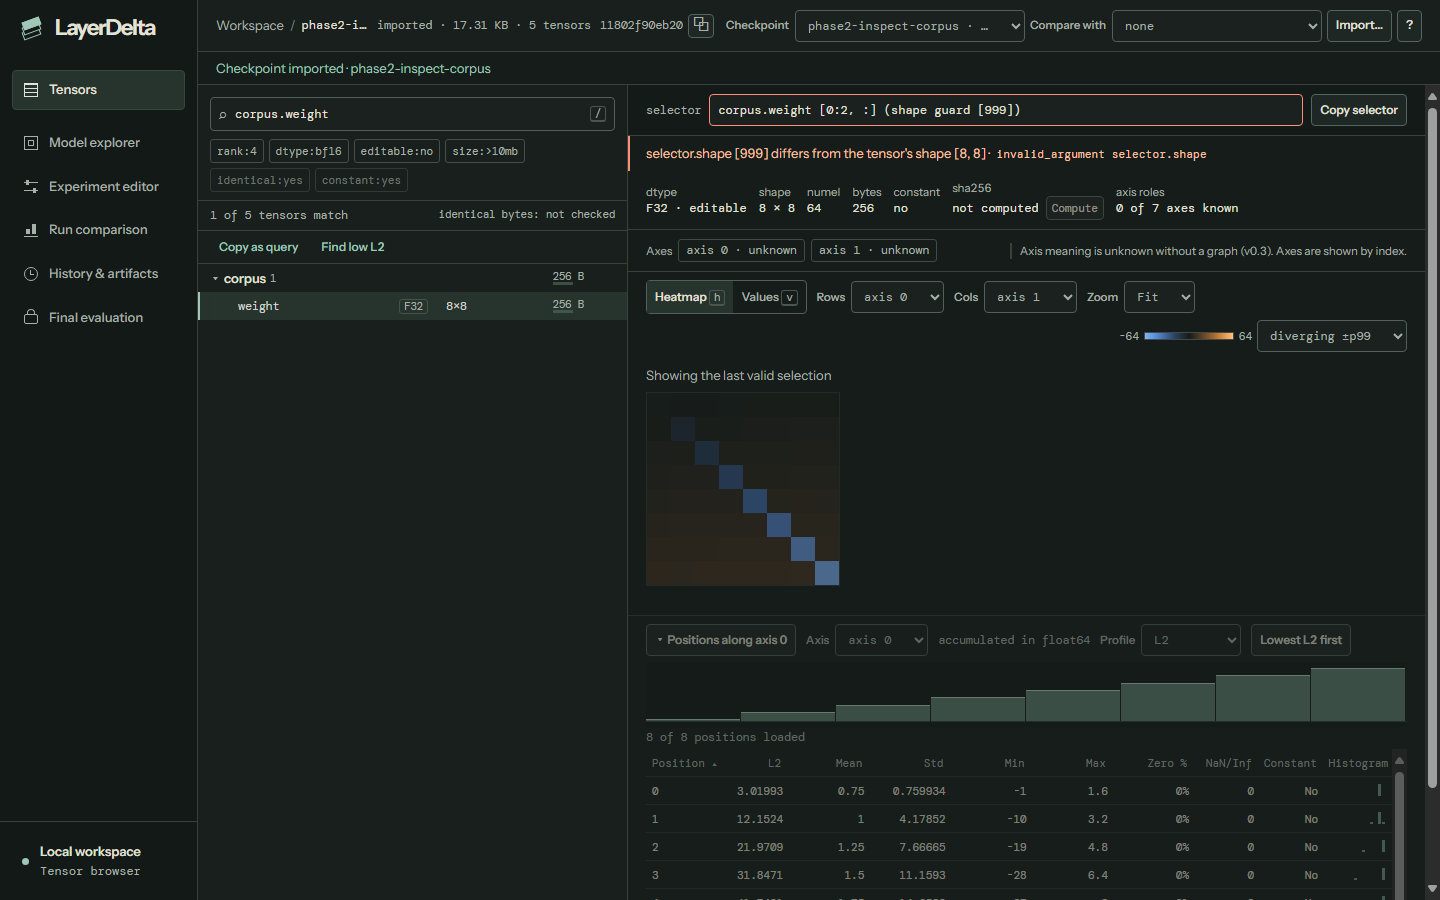
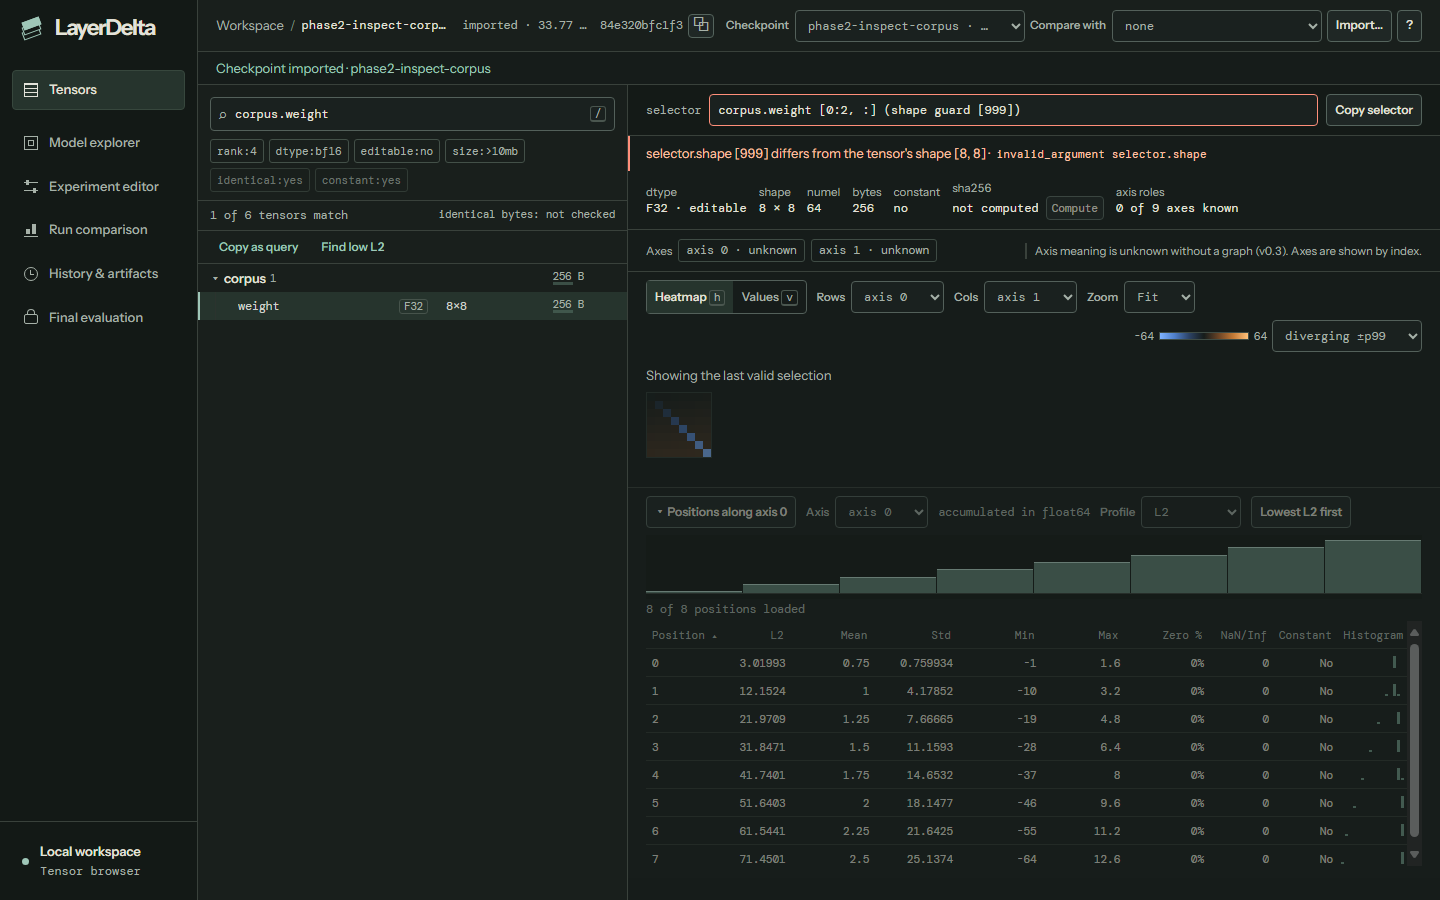
Fit tensor windows to the pane and draw profile envelopes

diff --git a/desktop/src/TensorInspector.tsx b/desktop/src/TensorInspector.tsx
@@ -2,7 +2,7 @@ import {useEffect, useMemo, useRef, useState} from "react";
 import {AxisRange, coordinates, DiffReply, DiffStatus, elements, Envelope, indicesFor, InspectError, Range, Read,
   Resolved, resolveSelector, Selector, Tensor, TensorDataSource, Unit, Value, ValueDiff} from "./tensorSource";
 import {count, statuses} from "./tensorTree";
-import {Cells, displayUlp, Heatmap, heatmapHeight, heatmapSize, metric, minFitCell, printed, ScaleLegend, ScaleMode, scaleFor, useWidth, ValueGrid, valueGridWidths} from "./tensorValues";
+import {Cells, displayUlp, fitCell, Heatmap, heatmapHeight, heatmapSize, metric, minFitCell, printed, ScaleLegend, ScaleMode, scaleFor, useWidth, ValueGrid, valueGridWidths} from "./tensorValues";
 import {Units} from "./tensorUnits";
 
 type View = "Heatmap" | "Values" | "Mosaic";
@@ -11,7 +11,7 @@ type DeltaPage = DiffReply<ValueDiff>;
 type Cursors = {child: string | null; parent?: string | null; delta?: string | null; pair?: string};
 type LoadedPage = {child: ReadPage; parent?: ReadPage; delta?: DeltaPage};
 type Layout = {rows: number; cols: number; spatial: number[]; view: View; index: Record<string, number[] | AxisRange>; shape?: number[]};
-type Display = Pick<Layout, "rows" | "cols" | "spatial"> & {flats: boolean; selectorText: string};
+type Display = Pick<Layout, "rows" | "cols" | "spatial"> & {flats: boolean; flatCols: number; selectorText: string};
 type DisplayedPage = LoadedPage & {key: string; dataset: string; range: LoadedPage & {key: string}; display: Display};
 const pageCap = 10000;
 const smallAxes = (tensor: Tensor) => tensor.shape.flatMap((n, i) => n > 0 && n <= 7 ? [i] : []);
@@ -71,6 +71,7 @@ type InspectorProps = {source: TensorDataSource; checkpoint: string; other: stri
 export function TensorInspector({source, checkpoint, other, tensor: t, status, coverage, shortcuts, copy, focusRequest}: InspectorProps) {
   const [layout, setLayout] = useState(() => defaultLayout(t));
   const [page, setPage] = useState(0);
+  const [cursorPageSize, setCursorPageSize] = useState<number>();
   const [flatCursors, setFlatCursors] = useState<Cursors[]>([{child: null}]);
   const [fixedInput, setFixedInput] = useState<Record<number, string>>({});
   const [unitAxis, setUnitAxis] = useState(0);
@@ -111,20 +112,31 @@ export function TensorInspector({source, checkpoint, other, tensor: t, status, c
   const tileArea = Math.max(1, tileRows * tileCols);
   const fullCount = elements(ids.map(axis => axis.length));
   const regionCap = Math.floor(pageCap / tileArea);
+  const fit = view !== "Values" && zoom === "fit";
   const paneCount = comparing ? 3 : 1;
   const paneWidth = Math.max(1, ((width || 800) - 40 - (paneCount - 1) * 14) / paneCount);
-  const rowLimit = Math.max(1, Math.floor(heatmapHeight / (tileRows * minFitCell)));
+  const gap = tileRows > 1 || tileCols > 1 ? 1 : 0;
+  const rowLimit = Math.max(1, Math.floor((heatmapHeight + gap) / Math.max(1, tileRows * minFitCell + gap)));
   const fitsRows = fullRows <= rowLimit && fullRows <= regionCap;
-  // Keep wide single-pane windows useful with horizontal scrolling at readable zoom.
-  const colLimit = Math.max(!comparing && fitsRows ? 1000 : 1, Math.floor(paneWidth / (tileCols * minFitCell)));
   const balancedRows = Math.max(1, Math.min(rowLimit, Math.ceil(Math.sqrt(regionCap * fullRows / Math.max(1, fullCols)))));
-  const windowRows = fullCount <= pageCap ? fullRows : Math.min(fullRows, fitsRows ? fullRows : spatial.length ? Math.min(16, balancedRows) : balancedRows);
-  const windowCols = fullCount <= pageCap ? fullCols :
-    Math.max(1, Math.min(fullCols, spatial.length ? Math.min(32, colLimit) : colLimit, Math.floor(regionCap / Math.max(1, windowRows))));
+  const windowRows = !fit && fullCount <= pageCap ? fullRows : Math.min(fullRows,
+    fitsRows ? fullRows : spatial.length ? Math.min(16, balancedRows) : balancedRows);
+  const matrixCell = fitCell(windowRows * tileRows + gap * Math.max(0, windowRows - 1));
+  const colLimit = fit ? Math.floor((paneWidth + gap) / Math.max(1, tileCols * matrixCell + gap)) :
+    Math.max(!comparing && fitsRows ? 1000 : 1, Math.floor(paneWidth / Math.max(1, tileCols * minFitCell)));
+  const windowCols = !fit && fullCount <= pageCap ? fullCols :
+    Math.max(1, Math.min(fullCols, !fit && spatial.length ? Math.min(32, colLimit) : colLimit, Math.floor(regionCap / Math.max(1, windowRows))));
+  const vector = t.shape.length === 1;
+  const flatColsCap = vector ? 128 : 80;
+  const flatCell = fitCell(vector ? 1 : Math.ceil(Math.min(fullCount, pageCap) / flatColsCap));
+  const flatCols = fit ? Math.max(1, Math.min(flatColsCap, Math.floor(paneWidth / flatCell))) : flatColsCap;
+  const flatPageSize = Math.min(vector ? 128 : pageCap, fit ? flatCols * (vector ? 1 : Math.floor(heatmapHeight / flatCell)) : pageCap);
+  const cell = fit ? flats ? flatCell : matrixCell : view === "Values" ? minFitCell : Number(zoom);
   const colsPages = Math.max(1, Math.ceil(fullCols / (windowCols || 1)));
   const rectangularPages = Math.max(1, Math.ceil(fullRows / (windowRows || 1)) * colsPages);
   const windowed = !flats && rectangularPages > 1;
-  const windowPage = windowed ? Math.min(page, rectangularPages - 1) : flats ? page : 0;
+  // Flat cursors mark offsets for the page size that produced them.
+  const windowPage = windowed ? Math.min(page, rectangularPages - 1) : flats && flatPageSize === cursorPageSize ? page : 0;
   const rowStart = Math.floor(windowPage / colsPages) * windowRows, colStart = (windowPage % colsPages) * windowCols;
   const rowPart = ids[rows]?.slice(rowStart, rowStart + windowRows);
   const colPart = ids[cols]?.slice(colStart, colStart + windowCols);
@@ -136,10 +148,10 @@ export function TensorInspector({source, checkpoint, other, tensor: t, status, c
       index[axis] = part.at(-1)! - part[0] + 1 === part.length ? {start: part[0], stop: part.at(-1)! + 1} : part;
     }
     return {...baseSelector, index};
-  }, [baseSelector, rows, cols, t.name, windowed, rowStart, colStart]);
+  }, [baseSelector, rows, cols, windowed, rowStart, colStart, windowRows, windowCols]);
   const dataset = JSON.stringify([checkpoint, comparing ? other : "", t.name]);
   const selectorText = syntax(t, selection.index ?? {}, shape);
-  const viewKey = JSON.stringify([dataset, baseKey, windowPage, selection, rows, cols, spatial, retry]);
+  const viewKey = JSON.stringify([dataset, baseKey, windowPage, selection, rows, cols, spatial, flats ? [flatPageSize, flatCols] : null, retry]);
   const globalKey = JSON.stringify([dataset, baseKey]);
   const activeId = status === "only_a" ? other : checkpoint;
   const wholeKey = activeId + t.name;
@@ -149,14 +161,13 @@ export function TensorInspector({source, checkpoint, other, tensor: t, status, c
   const failure = error ?? readError;
   const stale = !!failure && !!shown;
   const pending = canRead && !current && !failure;
-  const flatPageSize = t.shape.length === 1 ? 128 : pageCap;
-  const flatCount = Math.max(0, Math.min(flatPageSize, fullCount - page * flatPageSize));
-  const colsReading = flats ? Math.min(t.shape.length === 1 ? flatPageSize : 80, flatCount) :
+  const flatCount = Math.max(0, Math.min(flatPageSize, fullCount - windowPage * flatPageSize));
+  const colsReading = flats ? Math.min(flatCols, flatCount) :
     (windowed ? colPart?.length ?? 1 : fullCols) * tileCols;
   const rowsReading = flats ? Math.ceil(flatCount / Math.max(1, colsReading)) :
     (windowed ? rowPart?.length ?? 1 : fullRows) * tileRows;
   const computeRange = global?.key !== globalKey && fullCount > 0 && fullCount <= 2 ** 24;
-  const skeleton = pending && !shown && heatmapSize(Math.max(1, rowsReading), Math.max(1, colsReading), tileRows, tileCols, paneWidth, zoom);
+  const skeleton = pending && !shown && heatmapSize(Math.max(1, rowsReading), Math.max(1, colsReading), tileRows, tileCols, cell);
   // The backend rejects explicit zero-length ranges, including the echoed empty-axis range.
   const copySelection = t.shape.includes(0) ? selection : shown?.child.resolved.selector ?? resolveSelector({...selection, shape: t.shape}, t);
 
@@ -197,7 +208,7 @@ export function TensorInspector({source, checkpoint, other, tensor: t, status, c
     let live = true;
     setReadError(undefined);
     if (!canRead) return;
-    const pageSize = t.shape.length === 1 ? 128 : pageCap;
+    const pageSize = flats ? flatPageSize : pageCap;
     async function fetchPage(selector: Selector, include_range: boolean): Promise<LoadedPage> {
       const readChild = source.read_tensor(activeId, {selector, max_elems: pageSize, include_range});
       if (!comparing) return {child: await readChild};
@@ -212,23 +223,24 @@ export function TensorInspector({source, checkpoint, other, tensor: t, status, c
       try {
         const saved = global?.key === globalKey ? global : undefined;
         const firstPage = saved ?? fetchPage(baseSelector, true);
-        const [first, window] = await Promise.all([firstPage, windowed ? fetchPage(selection, false) : undefined]);
+        const changedPageSize = flats && windowPage === 0 && saved && saved.child.result.returned_elems !== flatCount;
+        const [first, window] = await Promise.all([firstPage, windowed || changedPageSize ? fetchPage(selection, false) : undefined]);
         if (!live) return;
         const range = saved ?? {key: globalKey, ...first};
         if (!saved) setGlobal(range);
         let data = window ?? range;
-        if (flats && page > 0) {
-          const child = await source.read_tensor(activeId, {selector: selection, max_elems: t.shape.length === 1 ? 128 : pageCap, cursor: flatCursors[page]?.child});
+        if (flats && windowPage > 0) {
+          const child = await source.read_tensor(activeId, {selector: selection, max_elems: pageSize, cursor: flatCursors[windowPage]?.child});
           let parent: ReadPage | undefined, delta: DeltaPage | undefined;
           if (comparing) {
             const {offset, returned_elems} = child.result;
-            const max_elems = t.shape.length === 1 ? 128 : pageCap;
+            const max_elems = pageSize;
             const cursorAt = async <T extends {cursor: string | null}>(initial: T, next: (cursor: string) => Promise<T>) => {
               let value = initial;
-              for (let step = 0; step < page && value.cursor; step++) value = await next(value.cursor);
+              for (let step = 0; step < windowPage && value.cursor; step++) value = await next(value.cursor);
               return value;
             };
-            const saved = flatCursors[page];
+            const saved = flatCursors[windowPage];
             const parentPage = (cursor: string) => source.read_tensor(other, {selector: selection, max_elems, cursor});
             const deltaPage = (cursor: string) => source.diff(other, checkpoint, {selector: selection, values: true, unit_axis: null, max_elems, cursor});
             [parent, delta] = saved?.pair === other && saved.parent && saved.delta ? await Promise.all([
@@ -239,7 +251,7 @@ export function TensorInspector({source, checkpoint, other, tensor: t, status, c
           }
           data = {child, parent, delta};
         }
-        if (live) setLoaded({...data, key: viewKey, dataset, range, display: {rows, cols, spatial, flats, selectorText}});
+        if (live) setLoaded({...data, key: viewKey, dataset, range, display: {rows, cols, spatial, flats, flatCols, selectorText}});
       } catch (e) {
         if (live) setReadError(e instanceof InspectError ? e : new InspectError("read_failed", (e as Error).message));
       }
@@ -252,9 +264,12 @@ export function TensorInspector({source, checkpoint, other, tensor: t, status, c
   const truncated = windowed || !!shown?.child.truncated || windowPage > 0;
   function stepWindow(step: number) {
     if (step < 0 ? windowPage === 0 : !canNext) return;
-    if (step > 0 && flats && current?.child.cursor) setFlatCursors(previous => [...previous.slice(0, page + 1), {
-      child: current.child.cursor, parent: current.parent?.cursor, delta: current.delta?.cursor, pair: other,
-    }]);
+    if (step > 0 && flats && current?.child.cursor) {
+      setCursorPageSize(flatPageSize);
+      setFlatCursors(previous => [...previous.slice(0, windowPage + 1), {
+        child: current.child.cursor, parent: current.parent?.cursor, delta: current.delta?.cursor, pair: other,
+      }]);
+    }
     setPage(windowPage + step); setCursor(-1); setPinned(-1); setDraft(undefined);
   }
 
@@ -327,12 +342,12 @@ export function TensorInspector({source, checkpoint, other, tensor: t, status, c
     [scoped, modes, shown]);
   const mapped = useMemo(() => {
     if (!shown) return null;
-    const {rows, cols, spatial, flats} = shown.display;
+    const {rows, cols, spatial, flats, flatCols} = shown.display;
     const positionAxes = indicesFor(shown.child.resolved.selector);
     const result = shown.child.result;
     if (!result.returned_elems) return null;
     if (flats) {
-      const width = t.shape.length === 1 ? result.returned_elems : Math.min(80, result.returned_elems);
+      const width = Math.min(flatCols, result.returned_elems);
       return {height: Math.ceil(result.returned_elems / width), width, tileHeight: 1, tileWidth: 1,
         positions: result.values.map((_, i) => coordinates(i + result.offset, result.selection_shape).map((p, axis) => positionAxes[axis][p])),
         order: result.values.map((_, i) => i)};
@@ -482,7 +497,7 @@ export function TensorInspector({source, checkpoint, other, tensor: t, status, c
         {elapsed > 0 && <span aria-hidden="true" className="tb-read-elapsed"> · {elapsed} s elapsed</span>}
       </div>}
       {stale && <p role="status" className="tb-read-status">Showing the last valid selection</p>}
-      <div ref={stage} className="tb-stage" data-pending={pending && !!shown} data-compare={panes.length > 1}>
+      <div ref={stage} className="tb-stage" data-fit={fit} data-pending={pending && !!shown} data-compare={panes.length > 1}>
         {skeleton && Array.from({length: paneCount}, (_, i) => <div key={i} className="tb-window-skeleton" aria-hidden="true"
           style={{width: Math.min(view === "Values" ? (colsReading + 1) * 36 : skeleton.w, paneWidth),
             height: view === "Values" ? Math.min(255, (rowsReading + 1) * 28) : skeleton.h}}/>)}
@@ -498,8 +513,7 @@ export function TensorInspector({source, checkpoint, other, tensor: t, status, c
                   if (peer !== scroller) {peer.scrollTop = scroller.scrollTop; peer.scrollLeft = scroller.scrollLeft;}
                 });
               } : undefined}/> :
-              <Heatmap cells={cells} cursor={focusCell} onCursor={setCursor} onPin={pin} zoom={zoom}
-                width={paneWidth}
+              <Heatmap cells={cells} cursor={focusCell} onCursor={setCursor} onPin={pin} cell={cell}
                 label={view + " of " + shownDisplay?.selectorText + ", " + mapped.height + " by " + mapped.width + ", " + p.scale.label +
                   (p.scale.note ? ", " + p.scale.note : "") +
                   (p.scale.kind === "empty" || p.scale.kind === "constant" || p.scale.kind === "bool" ? "" :

diff --git a/desktop/src/tensorBrowser.css b/desktop/src/tensorBrowser.css
@@ -30,7 +30,7 @@
 #tb-selector-error code {margin-inline-start: 4px}
 .tb-context {min-height: 52px; padding: 6px 18px; gap: 12px; flex-wrap: nowrap}
 .tb-catalog-context {display: flex; align-items: center; gap: 10px; flex: 1 1 0; min-width: 0; white-space: nowrap}
-.tb-catalog-facts {display: flex; align-items: center; gap: 5px; min-width: 0}
+.tb-catalog-facts {display: flex; align-items: center; gap: 5px; flex: 0 100 auto; min-width: calc(12ch + 36px)}
 .tb-checkpoint-facts {overflow: hidden; text-overflow: ellipsis; margin-right: 4px}
 .tensor-browser .tb-copy-sha {flex: none; min-height: 24px; width: 26px; padding: 0; font-size: 16px}
 .tb-import-notice {margin: 0; padding: 7px 18px; border-bottom: 1px solid var(--tb-pane-line); color: var(--bench-accent)}
@@ -38,10 +38,7 @@
   .tb-work:has(.tb-import-notice) {display: flex; flex-direction: column}
   .tb-work:has(.tb-import-notice) .tb-panes {flex: 1 1 auto; height: auto}
 }
-.tb-context .context-title {width: auto; min-width: 0; gap: 6px; overflow: hidden}
-@media (min-width: 1360px) {
-  .tb-catalog-facts {flex-shrink: 0}
-}
+.tb-context .context-title {width: auto; min-width: min(100%, calc(16ch + 5.4rem)); gap: 6px; overflow: hidden}
 .tb-context .context-title strong {overflow: hidden; text-overflow: ellipsis; white-space: nowrap}
 .tb-context .tb-tools {justify-content: flex-end; flex: 0 0 auto; flex-wrap: nowrap; gap: 5px; white-space: nowrap}
 .tb-context select {max-width: min(16vw, 210px)}
@@ -156,6 +153,7 @@
 .tb-pane {flex: 0 0 auto; min-width: 0; max-width: 100%; overflow: auto}
 .tb-pane-zero {margin: 4px 0 0}
 .tb-stage[data-compare=true] .tb-pane {max-width: calc((100% - 28px) / 3)}
+.tb-stage[data-fit=true] .tb-pane {overflow: clip}
 .tb-pane:has(.tb-value-scroll) {flex: 1 0 0}
 .tb-stage[data-compare=true] .tb-pane h3 {height: 35px; align-content: start}
 .tb-pane h3 {margin: 2px 0 5px; font-size: 12px; display: flex; flex-wrap: wrap; align-items: center; gap: 4px 10px}
@@ -246,6 +244,7 @@
   .tb-panes {display: flex; flex-direction: column; height: auto}
   .tb-context {padding-inline: 10px; gap: 6px}
   .tb-catalog-context {gap: 5px}
+  .tb-context .context-title {min-width: min(100%, 16ch)}
   .tb-context .context-title > :not(strong), .tb-context .tb-tools label span {display: none}
   .tensor-browser .tb-drawer {display: block; align-self: flex-start; margin: 6px 18px}
   .tb-tree {display: none; height: 380px; border-block: 1px solid var(--tb-pane-line); border-right: 0}

diff --git a/desktop/src/tensorValues.tsx b/desktop/src/tensorValues.tsx
@@ -115,19 +115,20 @@ export function moveCell(key: string, index: number, rows: number, cols: number)
 export const heatmapHeight = 208;
 export const minFitCell = 2;
 
-export function heatmapSize(rows: number, cols: number, tileRows: number, tileCols: number, width: number, zoom: string) {
-  const cell = zoom === "fit" ? Math.max(minFitCell, Math.min(24, Math.floor(Math.min(width / cols, heatmapHeight / rows)))) : Number(zoom);
+export const fitCell = (rows: number) => Math.max(minFitCell, Math.min(8, Math.floor(heatmapHeight / Math.max(1, rows))));
+
+export function heatmapSize(rows: number, cols: number, tileRows: number, tileCols: number, cell: number) {
   const gap = tileCols > 1 || tileRows > 1 ? 1 : 0;
   const pixels = (length: number, tile: number) => length * cell + Math.floor((length - 1) / tile) * gap;
-  return {cell, gap, w: pixels(cols, tileCols), h: pixels(rows, tileRows)};
+  return {gap, w: pixels(cols, tileCols), h: pixels(rows, tileRows)};
 }
 
-export function Heatmap({cells, cursor, onCursor, onPin, label, zoom, width}: {cells: Cells; cursor: number;
-  onCursor: (i: number) => void; onPin: (i: number) => void; label: string; zoom: string; width: number}) {
+export function Heatmap({cells, cursor, onCursor, onPin, label, cell}: {cells: Cells; cursor: number;
+  onCursor: (i: number) => void; onPin: (i: number) => void; label: string; cell: number}) {
   const ref = useRef<HTMLCanvasElement>(null);
   const raster = useRef<HTMLCanvasElement>(null);
   const {rows, cols, tileRows, tileCols, values, changed, scale} = cells;
-  const {cell, gap, w, h} = heatmapSize(rows, cols, tileRows, tileCols, width, zoom);
+  const {gap, w, h} = heatmapSize(rows, cols, tileRows, tileCols, cell);
   const pixel = (index: number, tile: number) => index * cell + Math.floor(index / tile) * gap;
 
   useLayoutEffect(() => {
@@ -201,7 +202,7 @@ export function Heatmap({cells, cursor, onCursor, onPin, label, zoom, width}: {c
         onCursor(next);
         const pane = e.currentTarget.parentElement;
         if (pane) {
-          const x = pixel(next % cols, tileCols);
+          const x = e.currentTarget.clientLeft + pixel(next % cols, tileCols);
           if (x < pane.scrollLeft) pane.scrollLeft = x;
           else if (x + cell > pane.scrollLeft + pane.clientWidth) pane.scrollLeft = x + cell - pane.clientWidth;
         }

diff --git a/desktop/src/tensorUnits.tsx b/desktop/src/tensorUnits.tsx
@@ -79,12 +79,16 @@ function Profile({rows, total, get, onPosition, selected, axis}: {rows: Row[]; t
     }
     for (const [x, bucket] of envelope) {
       if (!Number.isFinite(bucket.max)) continue;
-      const top = y(total > width ? bucket.max : Math.max(0, bucket.max));
-      const bottom = y(total > width ? bucket.min : Math.min(0, bucket.min));
+      const barWidth = Math.max(1, bars - 1);
+      const zero = y(0), min = y(bucket.min), max = y(bucket.max);
       ctx.fillStyle = "#5f8172";
-      ctx.fillRect(x, top, Math.max(1, bars - 1), Math.max(1, bottom - top));
+      ctx.fillRect(x, Math.min(zero, min), barWidth, Math.max(1, Math.abs(zero - min)));
+      if (max < min) {
+        ctx.fillStyle = "rgba(183,216,203,.7)";
+        ctx.fillRect(x, max, barWidth, min - max);
+      }
       ctx.fillStyle = "#b7d8cb";
-      ctx.fillRect(x, y(bucket.min), Math.max(1, bars - 1), 1);
+      ctx.fillRect(x, min, barWidth, 1);
     }
     ctx.fillStyle = "#e1f3e8";
     if (selected >= 0) ctx.fillRect(Math.floor(selected * width / total), 2, 1, 60);
